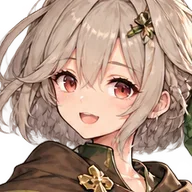
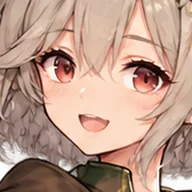
feat(v2cap): 神殿の顔のアップを顔の大きさに合わせて切り取り、大きさをそろえる
- ユーザー「男のイラストの顔アップの大きさが統一されてなくて空白が気になる。もっと全体統一して」
- 原因：切り取りを絵の幅の24%で決めていた。絵ごとに描かれた顔の大きさが違う（目〜あご60〜78px）ので、
  写る顔の大きさがそろわず、顔の小さい絵は空白が多かった
- 22枚とも両目とあごの位置を測って ART_FACE に置き、faceCropOf が顔の大きさから切り取る。
  どの顔も目が上から40%・目〜あごが38%（FACE_FIT）。前より寄りになり空白が減った
- classArt.test.js：目印の打ち間違い（目〜あごが絵の高さの3〜7%から外れる）と写し方の計算を見張る

diff --git a/src/v2cap/lib/classArt.js b/src/v2cap/lib/classArt.js
@@ -13,7 +13,7 @@
 //   kensi＝剣士（ユーザー「戦士男とsennsionnnaは剣士用」→ ほかに合わせて kensiotoko.png・kensionna.png に改名した）
 //   ⚠剣士の2枚も透明な背景（透明なところに隠れた色が残っているだけ）。透明を無視する見方だと背景つきに見えるので、
 //     背景の有無はマゼンタの上に重ねて確かめる。透明が消えた版を作ると classArt.test.js が落ちる
-// ★絵が無いクラス（一次クラス）は「イラスト準備中」。絵を足したら ART_BASE と ART_FACE に足して `node tools/v2cap-art.mjs` を回す
+// ★絵が無いクラス（一次クラス）は「イラスト準備中」。絵を足したら ART_BASE と ART_FACE（顔の目印）に足して `node tools/v2cap-art.mjs` を回す
 // ============================================================
 export const ART_BASE = {
   剣士: 'kensi',
@@ -28,20 +28,33 @@ export const ART_BASE = {
   僧侶: 'sisai',
   薬師: 'yakusi',
 }
-// 一覧の顔のアップの切り取り（tools/v2cap-art.mjs だけが使う）。
-// [顔の中心の横位置, 縦位置, 切り取る正方形の一辺]。どれも元の絵の幅・高さに対する割合（一辺は幅に対する割合）
+// 一覧の顔のアップ（tools/v2cap-art.mjs だけが使う）。
+// 【確定】2026-10-11 ユーザー指示「男のイラストの顔アップの大きさが統一されてなくて空白が気になる。もっと全体統一して」
+//   → 切り取りを絵の幅で決めるのをやめ、顔そのものの大きさに合わせる。顔の目印を1枚ずつ測って置き、
+//     どの顔も「目の高さ」と「目〜あごの長さ」が同じになるように切り取る（FACE_FIT）
+// ART_FACE … [両目のまんなかの横, 縦, あごの横, 縦]。どれも元の絵の幅・高さに対する割合（拡大図で測った）
 export const ART_FACE = {
-  kensi:      { m:[0.535, 0.108, 0.24], f:[0.659, 0.123, 0.24] },
-  sensi:      { m:[0.494, 0.094, 0.24], f:[0.720, 0.170, 0.24] },
-  yaritukai:  { m:[0.548, 0.124, 0.24], f:[0.445, 0.158, 0.24] },
-  kakutouka:  { m:[0.675, 0.140, 0.24], f:[0.586, 0.168, 0.24] },
-  touzoku:    { m:[0.290, 0.162, 0.24], f:[0.373, 0.138, 0.24] },
-  yumitukai:  { m:[0.426, 0.120, 0.24], f:[0.586, 0.117, 0.24] },
-  zyuusi:     { m:[0.655, 0.118, 0.24], f:[0.634, 0.101, 0.24] },
-  mahoutukai: { m:[0.428, 0.110, 0.24], f:[0.537, 0.100, 0.24] },
-  zyuzyutusi: { m:[0.450, 0.096, 0.24], f:[0.552, 0.111, 0.24] },
-  sisai:      { m:[0.49,  0.128, 0.24], f:[0.497, 0.124, 0.24] },
-  yakusi:     { m:[0.474, 0.108, 0.24], f:[0.481, 0.139, 0.24] },
+  kensi:      { m:[0.549, 0.102, 0.533, 0.141], f:[0.673, 0.117, 0.656, 0.159] },
+  sensi:      { m:[0.507, 0.081, 0.507, 0.130], f:[0.721, 0.167, 0.714, 0.213] },
+  yaritukai:  { m:[0.555, 0.125, 0.548, 0.168], f:[0.434, 0.148, 0.424, 0.190] },
+  kakutouka:  { m:[0.675, 0.130, 0.670, 0.176], f:[0.585, 0.163, 0.561, 0.204] },
+  touzoku:    { m:[0.273, 0.160, 0.288, 0.212], f:[0.365, 0.126, 0.379, 0.170] },
+  yumitukai:  { m:[0.425, 0.126, 0.413, 0.171], f:[0.598, 0.103, 0.595, 0.147] },
+  zyuusi:     { m:[0.645, 0.110, 0.637, 0.162], f:[0.634, 0.093, 0.616, 0.138] },
+  mahoutukai: { m:[0.427, 0.101, 0.442, 0.140], f:[0.528, 0.098, 0.519, 0.141] },
+  zyuzyutusi: { m:[0.454, 0.096, 0.475, 0.137], f:[0.549, 0.095, 0.543, 0.143] },
+  sisai:      { m:[0.483, 0.125, 0.501, 0.168], f:[0.487, 0.118, 0.506, 0.166] },
+  yakusi:     { m:[0.465, 0.098, 0.486, 0.149], f:[0.477, 0.132, 0.472, 0.176] },
+}
+// 顔のアップの写し方（切り取る正方形に対する割合）：目の高さ eyeAt・目〜あごの長さ eyeToChin。
+// 左右は「両目のまんなか」と「あご」の中間を真ん中に。顔をもっと大きく見せたいときは eyeToChin を上げる
+export const FACE_FIT = { eyeAt: 0.40, eyeToChin: 0.38 }
+// 顔の目印から切り取る正方形（元の絵のピクセル）を出す：{ x, y, size }（x・y は左上）
+export const faceCropOf = ([ex, ey, cx, cy], w, h, fit = FACE_FIT) => {
+  const len = Math.hypot((cx - ex) * w, (cy - ey) * h)
+  const size = len / fit.eyeToChin
+  const midX = (ex + cx) / 2 * w
+  return { x: midX - size / 2, y: ey * h - fit.eyeAt * size, size }
 }
 export const ART_GENDERS = [
   { key:'m', label:'男性', mark:'♂', color:'#66aaff', src:['otoko'] },

diff --git a/docs/v2cap-design.md b/docs/v2cap-design.md
@@ -776,3 +776,7 @@
   - 剣士の絵：元の2枚は**はじめから透明な背景**だった（透明なところに隠れた色が残っていて、透明を無視する見方だと背景つきに見えた）。それを背景つきと思い込み、透明を落として枠いっぱいに出す作り（`ART_FULL`）にしていた＝隠れた色が出ていた。`ART_FULL` をやめ、ほかと同じ作りに戻した
   - 再発防止：tools/v2cap-art.mjs は透明の無い元の絵を知らせる。classArt.test.js は画面で使う WebP がすべて透明つきかを見る（透明の無い版を作ると落ちる）。背景の有無はマゼンタの上に重ねて確かめる
   - 一覧の小さい絵は全身をやめて、顔のまわりだけのアップに。顔の位置は1枚ずつ測って ART_FACE に置いた（目が上から45%・顔が左右の真ん中に来るように）
+- **2026-10-11 顔のアップの大きさをそろえた**（ユーザー指示「男のイラストの顔アップの大きさが統一されてなくて空白が気になる。もっと全体統一して」）
+  - 原因：切り取る大きさを「絵の幅の24%」で決めていた。絵ごとに顔の描かれた大きさが違う（目〜あごが元の絵で60〜78px）ので、写る顔の大きさがそろわず、顔の小さい絵は空白が多かった
+  - 直し方：22枚とも両目とあごの位置を拡大図（目盛りつき）で測って ART_FACE に置き（両目のまんなか・あご）、`faceCropOf` が顔の大きさから切り取りを決める。どの顔も **目が上から40%・目〜あごが38%**（`FACE_FIT`）。前より寄りになり、空白が減った
+  - 顔をもっと大きく／小さく見せたいときは `FACE_FIT.eyeToChin` を変えて `node tools/v2cap-art.mjs`。目印の打ち間違いは classArt.test.js が見張る（目〜あごが絵の高さの3〜7%から外れると落ちる）
